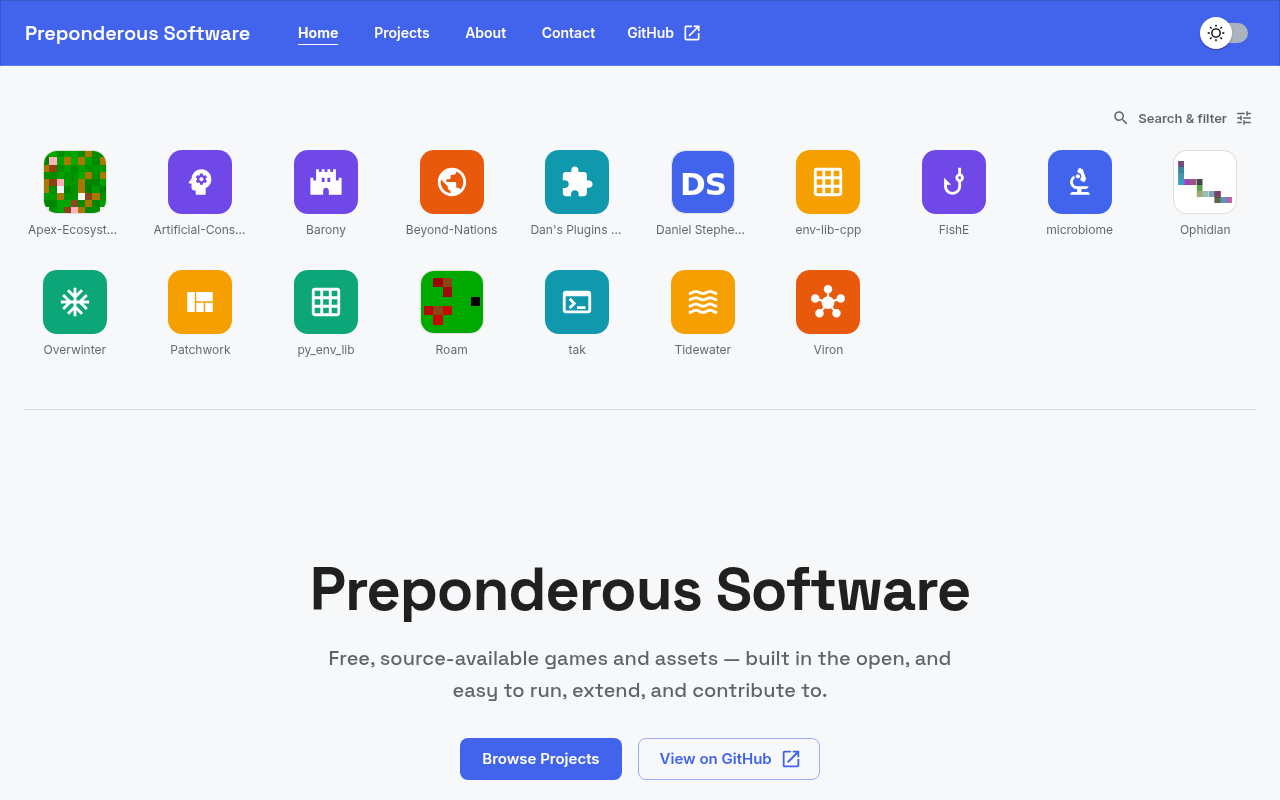
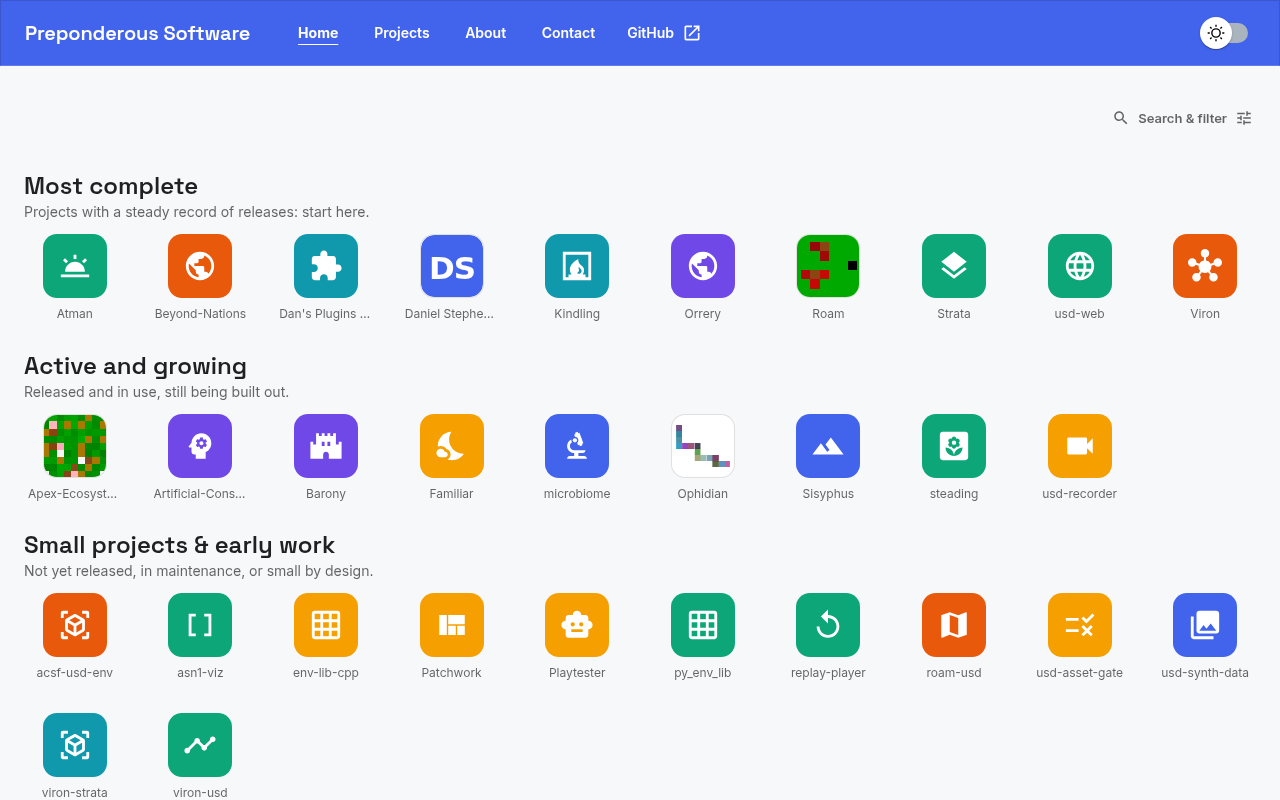
docs: current README screenshots; count real releases only
The README's screenshots predate the tiers and still showed the
Stephenson-Software games, so they are retaken from the current site at
the same sizes (1280 x 800, and 390 x 844 at 2x), with alt text to match.

scripts/refresh-releases.mjs no longer counts the rolling `dev`
prerelease, as on danielstephenson.dev: a repository whose only release
is `dev` has released nothing yet. releases.json is refreshed (Sisyphus
and Strata gained releases); no project changes tier.

Claude-Session: https://claude.ai/code/session_01LYNeunhb4scgiJKm2jCTEo

diff --git a/README.md b/README.md
@@ -5,8 +5,8 @@
 The Preponderous Software website is a [Next.js](https://nextjs.org/) web application that serves as the public face of Preponderous Software. It showcases the projects — free, source-available games, simulations, libraries, tools, and websites — and links out to their source on GitHub. Built with React and [Material UI](https://mui.com/), it mirrors the structure of the [Dan's Plugins Community website](https://github.com/Dans-Plugins/dansplugins-dot-com).
 
 <p align="center">
-  <img src="docs/images/home-desktop.png" alt="The preponderous.org home page: an icon grid of every project (Barony, Roam, Tidewater, Viron and more) above the Preponderous Software hero" width="640">
-  <img src="docs/images/home-mobile.png" alt="The same icon grid at phone width, four icons per row" width="160">
+  <img src="docs/images/home-desktop.png" alt="The preponderous.org home page: the project icons in three tiers, Most complete (Atman, Beyond Nations, Roam, Strata and more), Active and growing, and Small projects &amp; early work" width="640">
+  <img src="docs/images/home-mobile.png" alt="The same tiers at phone width, four icons per row" width="160">
 </p>
 <p align="center"><em>The live site at <a href="https://preponderous.org">preponderous.org</a>, desktop and phone width.</em></p>
 
